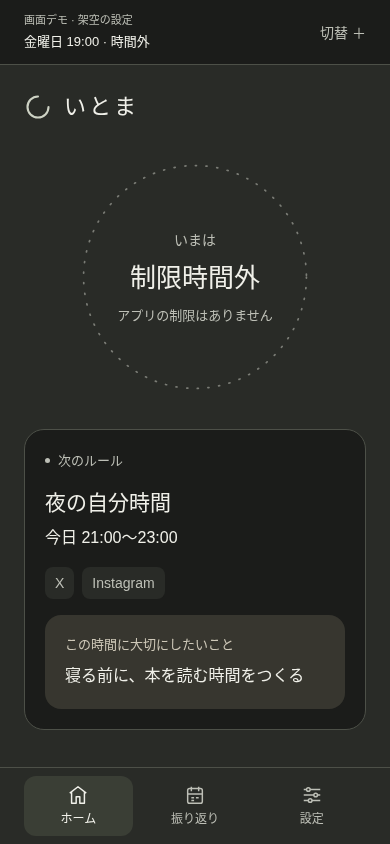
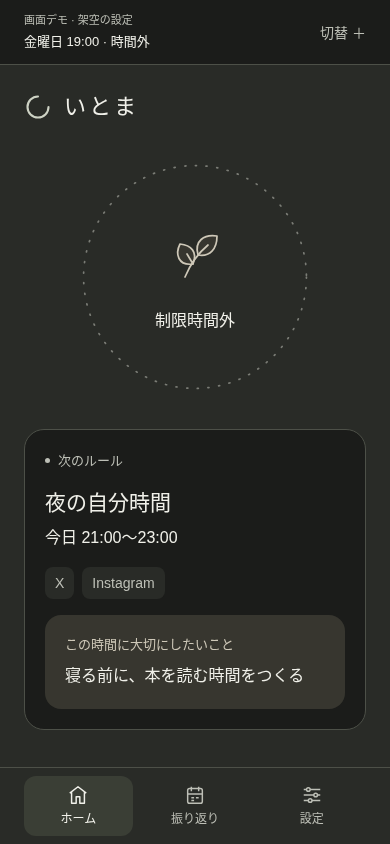
demo: simplify off-hours circle to a visual motif

Changed region(s): [[0.3385, 0.2773, 0.6769, 0.4005]]

diff --git a/demo/app/src/components/off-hours-circle.tsx b/demo/app/src/components/off-hours-circle.tsx
@@ -1,5 +1,6 @@
+import { useSyncExternalStore } from 'react';
 import { StyleSheet, Text, useWindowDimensions, View } from 'react-native';
-import Svg, { Circle } from 'react-native-svg';
+import Svg, { Circle, Path } from 'react-native-svg';
 import { useFlowTheme } from '@/components/flow/ui';
 
 const subscribe = () => () => {};
@@ -10,29 +11,32 @@ const server = () => false;
 export function OffHoursCircle() {
   const theme = useFlowTheme(), { fontScale, width } = useWindowDimensions();
   const hydrated = useSyncExternalStore(subscribe, client, server);
-  const expanded = hydrated && (fontScale > 1.2 || width <= 340);
-  const copy = <View style={[styles.copy, expanded && styles.expandedCopy]}>
-    <Text style={[styles.eyebrow, { color: theme.muted }]}>いまは</Text>
-    <Text accessibilityRole="header" style={[styles.title, { color: theme.text }]}>制限時間外</Text>
-    <Text style={[styles.detail, { color: theme.muted }]}>アプリの制限はありません</Text>
-  </View>;
-  return <View testID="off-hours-circle" style={[styles.group, expanded && styles.expandedGroup]}>
-    <View style={[styles.ring, expanded && styles.smallRing]}>
+  const expanded = hydrated && fontScale > 1.5;
+  const label = <Text accessibilityRole="header" style={[styles.label, { color: theme.text }]}>制限時間外</Text>;
+  return <View testID="off-hours-circle" style={styles.group}>
+    <View style={[styles.ring, hydrated && width <= 340 && styles.narrowRing]}>
       <View style={StyleSheet.absoluteFill} accessible={false} accessibilityElementsHidden importantForAccessibility="no-hide-descendants">
         <Svg width="100%" height="100%" viewBox="0 0 224 224" aria-hidden>
           <Circle cx={112} cy={112} r={104} fill="none" stroke={theme.muted} strokeOpacity={0.55} strokeWidth={1.6} strokeDasharray="1 9" strokeLinecap="round" />
         </Svg>
       </View>
-      {!expanded && copy}
+      <View style={styles.center}>
+        <View testID="off-hours-motif" accessible={false} accessibilityElementsHidden importantForAccessibility="no-hide-descendants">
+          <Svg width={72} height={72} viewBox="0 0 72 72" aria-hidden fill="none" stroke={theme.purposeMotif} strokeWidth={1.7} strokeLinecap="round" strokeLinejoin="round">
+            <Path d="M34 42C19 44 16 32 21 22C32 23 39 30 34 42Z" fill={theme.purposeSurface} />
+            <Path d="M39 33C35 19 45 12 58 14C58 27 51 35 39 33Z" fill={theme.purposeSurface} />
+            <Path d="M26 55C31 43 37 33 49 23M28 32L34 42" />
+          </Svg>
+        </View>
+        {!expanded && label}
+      </View>
     </View>
-    {expanded && copy}
+    {expanded && label}
   </View>;
 }
 const styles = StyleSheet.create({
-  group: { alignItems: 'center', paddingVertical: 12, gap: 16 }, ring: { width: 240, maxWidth: '100%', aspectRatio: 1 },
-  copy: { position: 'absolute', inset: 24, alignItems: 'center', justifyContent: 'center', gap: 8 },
-  eyebrow: { fontSize: 14, lineHeight: 22 }, title: { fontSize: 26, lineHeight: 38, fontWeight: '500' }, detail: { fontSize: 13, lineHeight: 21, textAlign: 'center' },
-  expandedGroup: { alignItems: 'flex-start' }, smallRing: { width: 72 },
-  expandedCopy: { position: 'relative', inset: undefined, alignItems: 'flex-start', gap: 6 },
+  group: { alignItems: 'center', paddingVertical: 12, gap: 16 },
+  ring: { width: 240, maxWidth: '100%', aspectRatio: 1 }, narrowRing: { width: 224 },
+  center: { position: 'absolute', inset: 24, alignItems: 'center', justifyContent: 'center', gap: 14 },
+  label: { fontSize: 16, lineHeight: 25, fontWeight: '400', textAlign: 'center', flexShrink: 1 },
 });
-import { useSyncExternalStore } from 'react';

diff --git a/demo/README.md b/demo/README.md
@@ -5,11 +5,11 @@
 ## 画面設計
 
 - 本人指定を優先し、時間外でもサークルを残す。直径240、円弧の線幅1.6、`1 9`の点線、muted色の55%。回転・点滅・次の開始までの進捗は加えない。
-- 中央に「いまは / 制限時間外 / アプリの制限はありません」。色や線の違いだけで意味を伝えない。点線は補助的な装飾であり、その低いコントラストに情報を依存しない。
+- 中央は時間帯に依存しない葉の線画と、小さな「制限時間外」の1行だけ。説明の重複を外し、余白を主役にする。色や線画だけで意味を伝えない。点線は補助的な装飾であり、その低いコントラストに情報を依存しない。
 - 情報順はブランド→現在の状態→次のルール1つ。次のルールには日時・対象アプリ・本人の目標。今日の一覧、成果、キャラクター、未合意の手動開始は置かない。
 - 今日・明日・来週の次の予定を表示。これは日付解決ロジックの複製ではなく、native側が次区間を確定した後の表示を想定する固定fixture。翌日以降を出せない現デモの欠落を比較する。
 - 予定なしでもサークルを残し、ルールを確認する入口を置く。目標未登録時は引用面を省く。
-- 320px以下・文字拡大時は円を72へ縮め、状態の文章を円外へ出す。重要情報を円内へ詰めない。
+- 320px以下でも円は224で残す（通常240）。native文字倍率1.5超ではラベルを円外へ出す。重要情報を円内へ詰めない。
 - 制限中との比較は本体のPeriodRingをそのまま使い、残り1時間30分・23時終了の実線リングを表示する。解除操作の比較は#231の既存デモで扱い、このデモには実行ボタンを偽装しない。
 - 設定・振り返りタブは戻れる範囲確認用の説明画面。このデモはそれらの製品UIの代替ではなく、保存・編集・集計を行わない。
 
